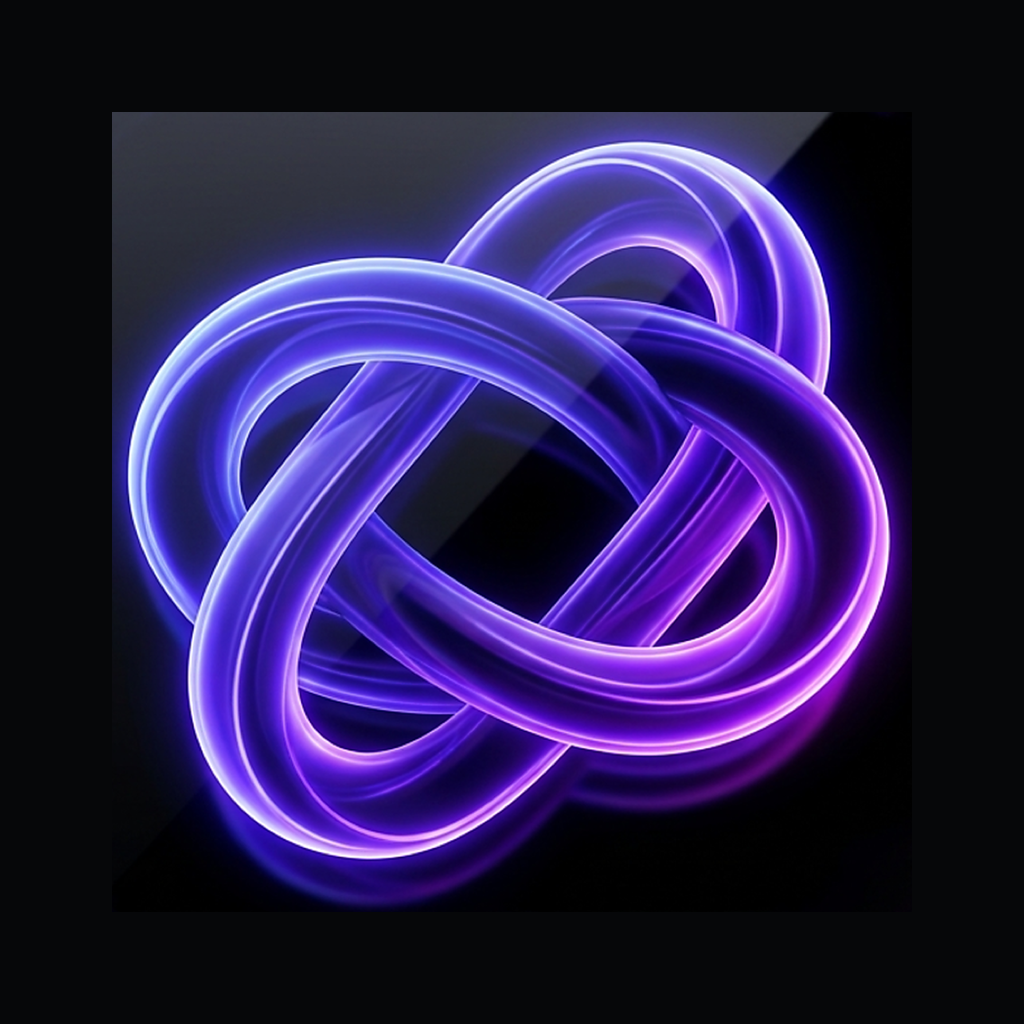
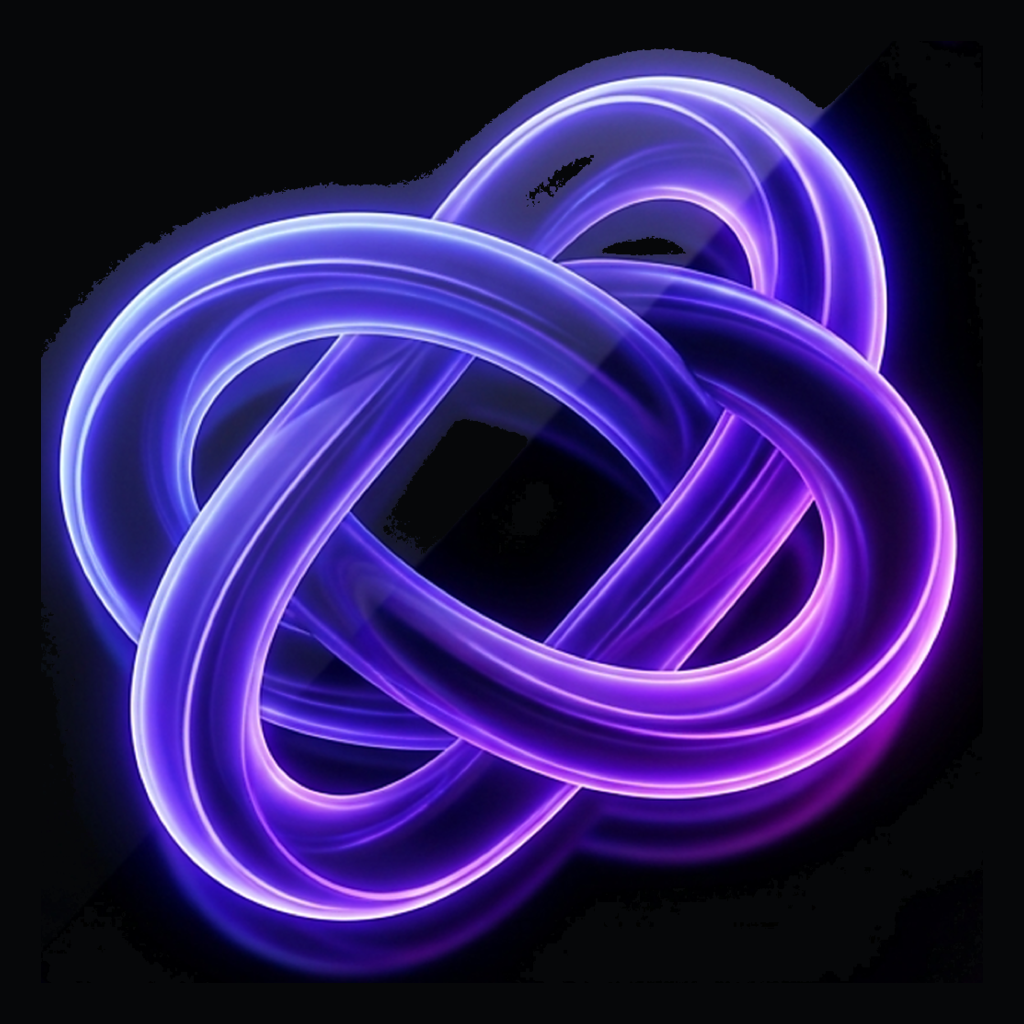
fix(android): 세션 재시작 버그(P앱으로→쇼츠복귀) + 아이콘/스플래시/상태바색 + 알림 갱신
- overlay/index.tsx: 마운트 이펙트에 세션 실행중 가드 추가 — 재마운트 시 세션 중복시작/
  YouTube 재실행 방지 (근본 원인: launchPlatformApp 무조건 재호출)
- 런처 아이콘/시스템 스플래시/JS 커스텀 스플래시: 원본 마스터 아트에 있던 반투명 카드
  아티팩트 제거 + 애플 컨벤션에 맞는 여백으로 재구성
- systemBarColor를 실제 대부분 화면이 쓰는 배경색(#0B0C0F)에 맞춰 상태바/콘텐츠 색 통일,
  온보딩 화면도 동일 배경으로 정정
- PaceOverlayService: 상단 알림이 세션 내내 고정 문구였던 것을 매분 남은시간 갱신하도록 수정
- AnimatedSplash: 노출시간이 너무 짧아(600ms) 인지 전에 사라지던 것 1400ms로 조정

diff --git a/modules/pace-overlay/android/src/main/java/expo/modules/paceoverlay/PaceOverlayService.kt b/modules/pace-overlay/android/src/main/java/expo/modules/paceoverlay/PaceOverlayService.kt
@@ -555,7 +555,7 @@ class PaceOverlayService : Service() {
   // 경로. 이미 세팅돼 있으면(같은 프로세스에서 이미 돌고 있던 정상 틱) 아무 것도 안 한다.
   private fun ensureInfraReady() {
     if (infraReady) return
-    startForeground(NOTIFICATION_ID, buildNotification())
+    startForeground(NOTIFICATION_ID, buildNotification(remainingMinutes))
     showOverlay(remainingMinutes)
     startForegroundAppPolling()
     setupMediaSession()
@@ -1248,6 +1248,7 @@ class PaceOverlayService : Service() {
         }
       }
       setRemainingText(remainingMinutes)
+      updateNotification(remainingMinutes)
       persistState()
       Log.d("PaceOverlay", "tick remaining=$remainingMinutes sleepTimer=$sleepTimerRemainingMinutes nextBreakIn=$nextBreakInMinutes")
 
@@ -1349,17 +1350,31 @@ class PaceOverlayService : Service() {
     }
   }
 
-  private fun buildNotification(): Notification {
+  // 2026-08-01 사용자 지적("상단 노티가 하루종일 똑같은데?") — buildNotification()이 ensureInfraReady()
+  // 에서 딱 1번만 호출되고 이후 다시 notify()되는 곳이 없어, 세션 내내 "세션 관리 중" 고정 문구만
+  // 떠 있었다(남은 시간이 줄어도 전혀 반영 안 됨). remainingMinutes를 받아 알약(remainingLabel)과
+  // 동일한 정보를 보여주고, performTick()에서 매 분 updateNotification()으로 갱신한다.
+  private fun buildNotification(remainingMinutes: Int): Notification {
     if (Build.VERSION.SDK_INT >= Build.VERSION_CODES.O) {
       val channel = NotificationChannel(CHANNEL_ID, "Pace Session", NotificationManager.IMPORTANCE_MIN)
       getSystemService(NotificationManager::class.java).createNotificationChannel(channel)
     }
+    val body = if (isKoreanLocale()) "${remainingMinutes}분 남음" else "${remainingMinutes}m left"
     return Notification.Builder(this, CHANNEL_ID)
       .setContentTitle("Pace")
-      .setContentText(if (isKoreanLocale()) "세션 관리 중" else "Managing session")
+      .setContentText(body)
       .setSmallIcon(android.R.drawable.ic_menu_recent_history)
       .setOngoing(true)
       .build()
+  }
+
+  private fun updateNotification(remainingMinutes: Int) {
+    try {
+      (getSystemService(Context.NOTIFICATION_SERVICE) as NotificationManager)
+        .notify(NOTIFICATION_ID, buildNotification(remainingMinutes))
+    } catch (e: Exception) {
+      Log.w("PaceOverlay", "updateNotification failed", e)
+    }
   }
 
   // 2026-07-19: healthy-shorts-assistant(3) ShortsPlayer.tsx의 Android 컴팩트 알약(dark glass +
@@ -2066,25 +2081,35 @@ class PaceOverlayService : Service() {
       // 기존에 "capture" kind로 저장된 항목도 SavedVideosStore.list()가 같이 읽어오도록 처리해뒀다.
       MenuItem("Favorite", { hidePaceMenu(); showSavedFavoriteList("favorite") }, icon = "★"),
     )
+    // 2026-08-01 사장님 지적("아이콘 정렬해야 할거 아냐") — 아이콘(↗/★)과 배지(HOT)는 폭이
+    // 서로 달라서 그냥 붙이면 라벨("Open App"/"Shorts"/"Favorite") 시작 위치가 행마다 어긋나
+    // 보였다. 모든 행에 동일한 고정폭 슬롯을 두고 그 안에서 아이콘/배지를 가운데 정렬해 라벨이
+    // 항상 같은 x 위치에서 시작하도록 한다(iOS 컨텍스트 메뉴 아이콘 컬럼과 동일한 방식).
+    val iconSlotWidth = (22 * d).toInt()
     items.forEachIndexed { index, item ->
-      // 2026-08-01 사장님 지적("박스 크기 줄이라고") — 행 패딩/글자 크기를 iOS 컨텍스트 메뉴에
-      // 가깝게 더 촘촘히 줄임(특히 상하 패딩 12dp→7dp가 3줄 누적되면 세로로 가장 크게 체감됨).
+      // 2026-08-01 사장님 지적("박스도 너무 줄였잖아") — 이전에 너무 촘촘히 줄인 패딩/글자
+      // 크기를 살짝 되돌림(가로 12→14dp, 세로 7→9dp, 라벨 12f→13f). WRAP_CONTENT 자체는
+      // 유지 — 짧은 행 뒤에 빈 공간이 생기는 문제와는 별개다.
       val row = LinearLayout(this).apply {
         orientation = LinearLayout.HORIZONTAL
         gravity = Gravity.CENTER_VERTICAL
         isClickable = true
-        setPadding((12 * d).toInt(), (7 * d).toInt(), (12 * d).toInt(), (7 * d).toInt())
+        setPadding((14 * d).toInt(), (9 * d).toInt(), (14 * d).toInt(), (9 * d).toInt())
         setOnClickListener { item.action() }
       }
+      val iconSlot = FrameLayout(this).apply {
+        layoutParams = LinearLayout.LayoutParams(iconSlotWidth, LinearLayout.LayoutParams.WRAP_CONTENT).apply {
+          marginEnd = (8 * d).toInt()
+        }
+      }
       if (item.icon != null) {
-        row.addView(TextView(this).apply {
+        iconSlot.addView(TextView(this).apply {
           text = item.icon
-          textSize = 13f
+          textSize = 14f
           setTextColor(Color.parseColor("#CCFFFFFF"))
-          setPadding(0, 0, (6 * d).toInt(), 0)
-        })
+        }, FrameLayout.LayoutParams(FrameLayout.LayoutParams.WRAP_CONTENT, FrameLayout.LayoutParams.WRAP_CONTENT, Gravity.CENTER))
       } else if (item.badge != null) {
-        row.addView(TextView(this).apply {
+        iconSlot.addView(TextView(this).apply {
           text = item.badge
           textSize = 9f
           setTextColor(Color.WHITE)
@@ -2094,13 +2119,12 @@ class PaceOverlayService : Service() {
             setColor(Color.parseColor("#E5484D"))
           }
           setPadding((6 * d).toInt(), (1 * d).toInt(), (6 * d).toInt(), (1 * d).toInt())
-        }, LinearLayout.LayoutParams(LinearLayout.LayoutParams.WRAP_CONTENT, LinearLayout.LayoutParams.WRAP_CONTENT).apply {
-          marginEnd = (6 * d).toInt()
-        })
+        }, FrameLayout.LayoutParams(FrameLayout.LayoutParams.WRAP_CONTENT, FrameLayout.LayoutParams.WRAP_CONTENT, Gravity.CENTER))
       }
+      row.addView(iconSlot)
       row.addView(TextView(this).apply {
         text = item.label
-        textSize = 12f
+        textSize = 13f
         setTextColor(Color.WHITE)
         setTypeface(typeface, android.graphics.Typeface.BOLD)
       })

diff --git a/src/services/i18n/translations.ts b/src/services/i18n/translations.ts
@@ -477,8 +477,13 @@ export const translations = {
       bodyWithoutSnap: 'Pace can advance Shorts from your Bluetooth remote\'s volume button or a hand wave.',
       fingerSnapLabel: 'Finger snap',
       handWaveLabel: 'Hand wave',
-      handWaveHint: 'Sweep your open hand toward the front camera — start ~40 cm away and move in to ~15 cm. The approaching motion is what triggers it, not a fixed distance, so keep it moving (a still hand won\'t register). Detection may not always be accurate.',
+      // 2026-08-01 사용자 지시("손짓은 너무 길잖아 좀더 다듬고") — 40cm/15cm 같은 수치 안내는 뺐지만,
+      // "가끔 안 잡힐 수 있다"는 정확도 caveat은 사용자가 다시 넣어달라고 해서 짧게라도 유지한다.
+      handWaveHint: 'Push your open hand toward the camera in one motion — a still hand won\'t register, and detection isn\'t always accurate.',
       bluetoothRemoteLabel: 'Bluetooth remote',
+      // 2026-08-01 사용자 지시("블루투스 리모컨에 대한 설명 좀더 상세히") — 손짓엔 힌트 문구가
+      // 있었는데 블루투스 리모컨엔 없어서 "어떤 리모컨이 되는지, 뭘 눌러야 하는지" 정보가 부족했다.
+      bluetoothRemoteHint: 'Any Bluetooth remote with a volume button works — just pair it and press.',
       // 2026-07-28 사장님 지시("손짓이 너무 부정확해") — 정확도 이슈로 블루투스 리모컨을 추천 방식으로 승격.
       recommended: 'Recommended',
       nextShort: 'Next Short',
@@ -914,8 +919,13 @@ export const translations = {
       bodyWithoutSnap: '블루투스 리모컨의 볼륨 버튼 또는 손짓으로 Shorts를 넘길 수 있어요.',
       fingerSnapLabel: '핑거스냅',
       handWaveLabel: '손짓',
-      handWaveHint: '편 손을 전면 카메라 쪽으로 "훠이" 하듯 다가가세요 — 약 40cm에서 시작해 15cm까지. 고정 거리가 아니라 다가오는 "동작"이 인식돼요(가만히 있으면 안 됩니다). 인식이 항상 정확하지 않을 수 있어요.',
+      // 2026-08-01 사용자 지시("손짓은 너무 길잖아 좀더 다듬고") — 40cm/15cm 같은 수치 안내는 뺐지만,
+      // "가끔 안 잡힐 수 있다"는 정확도 caveat은 사용자가 다시 넣어달라고 해서 짧게라도 유지한다.
+      handWaveHint: '편 손을 카메라 쪽으로 한 번에 훠이 밀어보세요. 가만히 있으면 인식이 안 되고, 가끔 안 잡힐 수도 있어요.',
       bluetoothRemoteLabel: '블루투스 리모컨',
+      // 2026-08-01 — 사용자 지시("설명 좀더 상세히") → 바로 다음 지적("너무 길어", "좀 적당히
+      // 조절을 못하냐") — 손짓 hint와 길이가 맞게 한 문장으로 줄였다.
+      bluetoothRemoteHint: '볼륨 버튼 있는 블루투스 리모컨이면 뭐든 페어링만 하면 바로 돼요.',
       // 2026-07-28 사장님 지시("손짓이 너무 부정확해") — 정확도 이슈로 블루투스 리모컨을 추천 방식으로 승격.
       recommended: '추천',
       nextShort: '다음 영상',

diff --git a/src/app/_layout.tsx b/src/app/_layout.tsx
@@ -1,4 +1,4 @@
-import { useEffect, useCallback, useState } from 'react';
+import { useEffect, useCallback, useState, useRef } from 'react';
 import { ActivityIndicator, AppState, LogBox, Platform, StyleSheet, Text, View } from 'react-native';
 
 // 개발(LogBox) 전용 소음 억제 — RevenueCat SDK가 시뮬레이터(StoreKit 없음)에서 "issue with your
@@ -7,7 +7,7 @@ import { ActivityIndicator, AppState, LogBox, Platform, StyleSheet, Text, View }
 if (__DEV__) {
   LogBox.ignoreLogs(['[RevenueCat]', 'There is an issue with your configuration', 'Purchases']);
 }
-import { Stack } from 'expo-router';
+import { Stack, usePathname } from 'expo-router';
 import { StatusBar } from 'expo-status-bar';
 import * as NavigationBar from 'expo-navigation-bar';
 import * as Notifications from 'expo-notifications';
@@ -101,15 +101,26 @@ export default function RootLayout() {
   // 2026-07-26 사용자 지시("매일 출석하기") — 부팅마다 오늘 처음 앱을 연 것인지 확인, 맞으면 크레딧
   // 지급 + 축하 팝업. checkInIfNeeded()가 내부에서 "오늘 이미 출석했으면 no-op"을 보장하므로 여기서
   // 매 부팅마다 불러도 하루 1번만 실제로 지급된다.
+  // 2026-08-01 사용자 지적("가이드 뜰때는 가이드 다 뜨고 홈에가야 출석 완료가 떠야지") — 이 효과가
+  // RootLayout 마운트 즉시(빈 deps) 실행돼서, 최초 실행이라 index.tsx가 /onboarding으로 리다이렉트
+  // 하는 것과 완전히 동시에 축하 팝업이 떴다. DailyCheckInModal은 이 파일에서 <Stack> 밖(=항상 최상단)
+  // 에 렌더되므로 onboarding 위에 그대로 겹쳐 보였다. pathname이 '/onboarding'인 동안은 체크인 자체를
+  // 미루고, 온보딩을 벗어난(=홈 등 실제 화면에 도달한) 최초 시점에만 1회 실행한다 — 온보딩이 필요
+  // 없는 기존 사용자는 pathname이 곧장 홈이 되므로 예전과 동일하게 즉시 실행된다(회귀 없음).
   const [checkInEarned, setCheckInEarned] = useState<number | null>(null);
+  const pathname = usePathname();
+  const hasCheckedInRef = useRef(false);
   useEffect(() => {
+    if (hasCheckedInRef.current) return;
+    if (pathname === '/onboarding') return;
+    hasCheckedInRef.current = true;
     useAttendanceStore.getState().checkInIfNeeded().then(({ checkedIn, earned }) => {
       if (checkedIn) {
         setCheckInEarned(earned);
         useAttendanceStore.getState().setCelebrationVisible(true);
       }
     }).catch(() => {});
-  }, []);
+  }, [pathname]);
 
   // Flip Mode(스펙 §4-A) — 앱이 떠 있는 동안 전역으로 "내려놓은 시간(쉬는시간)"을 측정한다.
   // iOS(CMMotionManager)/Android(SensorManager) 둘 다 실제 감지, 포그라운드에서만 동작(§4-A 제약).

diff --git a/modules/pace-overlay/android/src/main/java/expo/modules/paceoverlay/PaceOverlayModule.kt b/modules/pace-overlay/android/src/main/java/expo/modules/paceoverlay/PaceOverlayModule.kt
@@ -8,8 +8,11 @@ import android.media.AudioDeviceInfo
 import android.media.AudioManager
 import android.net.Uri
 import android.os.Build
+import android.os.Handler
+import android.os.Looper
 import android.provider.Settings
 import android.util.Log
+import android.view.Gravity
 import android.widget.Toast
 import android.Manifest
 import expo.modules.interfaces.permissions.Permissions
@@ -280,7 +283,17 @@ class PaceOverlayModule : Module() {
             } else {
               "Find \"Pace\" under Installed apps (or Downloaded apps) and turn it on"
             }
-            Toast.makeText(context, guidance, Toast.LENGTH_LONG).show()
+            // 2026-08-01 사용자 지적("안내가 떴다가 사라져 하단에 떠서 잘 안보이고") — 기본 Toast는
+            // 화면 하단(제스처 바 근처)에 뜨는데, 이 시점 사용자 시선은 방금 막 열린 설정 화면
+            // 상단(제목 "접근성")에 가 있다. gravity를 상단으로 옮기고, LENGTH_LONG(~3.5초) 한 번으론
+            // 놓치기 쉬워 동일 토스트를 한 번 더 띄워 실질 노출 시간을 늘린다(총 ~7초).
+            fun showGuidanceToast() {
+              Toast.makeText(context, guidance, Toast.LENGTH_LONG).apply {
+                setGravity(Gravity.TOP, 0, (180 * context.resources.displayMetrics.density).toInt())
+              }.show()
+            }
+            showGuidanceToast()
+            Handler(Looper.getMainLooper()).postDelayed({ showGuidanceToast() }, 3500L)
           } catch (fallbackError: RuntimeException) {
             Log.e("PaceOverlay", "requestAccessibilityPermission: both direct and fallback intents failed", fallbackError)
           }

diff --git a/src/services/api/client.ts b/src/services/api/client.ts
@@ -1,6 +1,7 @@
 import { Platform } from 'react-native';
 import AsyncStorage from '@react-native-async-storage/async-storage';
 import { STORAGE_KEYS } from '../storage/keys';
+import type { FlatContent } from '../insightContent';
 
 // 커스텀 백엔드 REST 클라이언트 (zen-master src/common/services/api.ts 패턴 이식).
 // Supabase 대신 자체 API 서버 + JWT를 쓰기로 결정 — PACE_ARCHITECTURE.md "확정 결정" 참고.
@@ -155,4 +156,19 @@ export const SHORTS_HOT_CATEGORIES = ['all', 'music', 'gaming', 'comedy', 'enter
 export const shortsHotApi = {
   list: (category: string): Promise<ShortsHotVideo[]> =>
     request<ShortsHotVideo[]>(`/shorts-hot?category=${encodeURIComponent(category)}`),
+};
+
+// 2026-08-01 — 홈 배너 인사이트 문구(힐링/명언/기능가이드/통계템플릿) 백엔드 이전. 문구 하나 고칠
+// 때마다 앱스토어 재배포하던 걸 없애려는 목적(usageInsight.ts 참고) — DB insight_item 테이블,
+// InsightController(/insights)가 카테고리별로 묶어서 반환.
+export type InsightBundle = {
+  healing: FlatContent[];
+  quote: FlatContent[];
+  tip: FlatContent[];
+  statYesterdayLastWatched: FlatContent[];
+  statTodayMoreThanAvg: FlatContent[];
+  statTodayLessThanAvg: FlatContent[];
+};
+export const insightApi = {
+  getBundle: (): Promise<InsightBundle> => request<InsightBundle>('/insights'),
 };

diff --git a/src/app/overlay/index.tsx b/src/app/overlay/index.tsx
@@ -136,6 +136,17 @@ export default function OverlaySessionScreen() {
 
   useEffect(() => {
     if (!user?.id) return;
+    // 2026-08-01 사용자 재현("P메뉴 앱으로 눌렀는데 쇼츠로 자동복귀") — 이 이펙트는 원래 "이
+    // 화면에 처음 진입할 때 딱 한 번" 세션을 시작한다고 가정하고 무조건 startSession(새 DB row)+
+    // launchPlatformApp(YouTube 재실행)까지 실행했는데, 실제로는 아무 멱등 가드가 없었다. 세션이
+    // 이미 useSessionStore에 'running'으로 떠 있는 상태에서(=진짜 세션이 계속 도는 중) 이 화면이
+    // 무슨 이유로든(딥링크 재진입, 네비게이션 레이스 등) 다시 마운트되면 매번 새 DB 세션 row를
+    // 만들고 launchPlatformApp으로 YouTube를 다시 열어버렸다 — "앱으로"를 눌러도 곧장 쇼츠로
+    // 되돌아가 보이는 증상과 정확히 일치. 이미 실행 중이면 아무 것도 다시 하지 않는다.
+    if (useSessionStore.getState().status === 'running') {
+      hasSessionStartedRef.current = true;
+      return;
+    }
     (async () => {
       const id = await startSession(user.id, platform ?? null);
       sessionIdRef.current = id;

diff --git a/src/app/(tabs)/home.tsx b/src/app/(tabs)/home.tsx
@@ -145,6 +145,19 @@ export default function HomeScreen() {
     return () => sub.remove();
   }, []);
 
+  // 2026-08-01 사용자 지적("앱 나갔다 다시 들어왔는데 무한 스크롤 같은 문구야") — useFocusEffect는
+  // react-navigation의 화면 포커스(탭 전환)에만 반응한다. 홈 탭에 계속 머문 채로 홈 버튼 등으로
+  // 앱만 백그라운드로 보냈다가 다시 열면 화면 포커스 자체는 안 바뀌므로 재추첨이 안 됐다. 앱이
+  // 다시 active로 돌아올 때도 별도로 재추첨한다.
+  useEffect(() => {
+    const sub = AppState.addEventListener('change', (state) => {
+      if (state === 'active' && user?.id) {
+        getTodaysInsightMessage(user.id).then(setTodaysInsight).catch(() => {});
+      }
+    });
+    return () => sub.remove();
+  }, [user?.id]);
+
   // 2026-07-22 사용자 지시 — 한도 도달 알림 3단계화. 한도를 넘긴 뒤 5분 단위로 "몇 번째 도달인지"
   // 계산(정확히 한도=1차, +5분=2차, +10분 이상=3차 이상)해서 useLimitHitStore를 그 값까지 따라잡게
   // 하고, 그 값(tier로 clamp)에 맞는 다이얼로그/토스트를 렌더한다.

diff --git a/src/app/onboarding/index.tsx b/src/app/onboarding/index.tsx
@@ -162,7 +162,12 @@ export default function OnboardingScreen() {
 
 const styles = StyleSheet.create({
   flex: { flex: 1 },
-  background: { backgroundColor: colors.card },
+  // 2026-08-01 사용자 실기기 지적("이전 가이드 페이지 상하단이 회색이어야 하는데 검은색") —
+  // systemBarColor를 colors.card(#171A21)에서 colors.background(#0B0C0F, 실제 탭 화면 전부가
+  // 쓰는 색)로 정정하면서 이 화면만 여전히 card색 배경이라 시스템 바와 다시 어긋났다. 시스템 바
+  // 색은 Android edge-to-edge 강제 이후 앱 전체 고정값 하나뿐이라(화면별로 못 바꿈) 이 화면 쪽을
+  // 시스템 바에 맞춘다.
+  background: { backgroundColor: colors.background },
   container: { flex: 1, paddingHorizontal: spacing.lg, justifyContent: 'center', gap: spacing.xl },
   headerBlock: { alignItems: 'center', gap: spacing.xs, marginBottom: spacing.sm },
   handsFreeIconWrap: { width: 52, height: 52, borderRadius: radius.pill, backgroundColor: `${colors.primary}1A`, alignItems: 'center', justifyContent: 'center', marginBottom: spacing.xs },

diff --git a/src/components/ui/AnimatedSplash.tsx b/src/components/ui/AnimatedSplash.tsx
@@ -14,7 +14,11 @@ import Animated, {
 import { colors, radius, typography } from '../../constants/theme';
 
 const ICON = require('../../../assets/splash-icon.png');
-const DURATION_MS = 600;
+// 2026-08-01 사용자 실기기 지적("스플래시 너무 빠르게 지나가고 원 안에 아이콘이 아예 없다") —
+// 600ms는 너무 짧아서 이 화면 자체를 거의 인지 못 하고 지나갔다("멋있는" 글로우/텍스트/로딩바
+// 연출이 있는데도 볼 시간이 없었음). 앞단(네이티브 시스템 스플래시)을 줄이는 게 아니라 이 JS
+// 스플래시 자체를 더 오래 보이게 늘린다.
+const DURATION_MS = 1400;
 
 // 2026-07-26 재작성(웹리서치 반영 — Apple HIG + Uber/Swiggy 방식): 앱 실행 "아이콘 번쩍" 해결.
 // 상용앱 규칙: 네이티브 런치스크린과 애니메이션 스플래시의 "첫 프레임"이 시각적으로 동일해야 한다.
